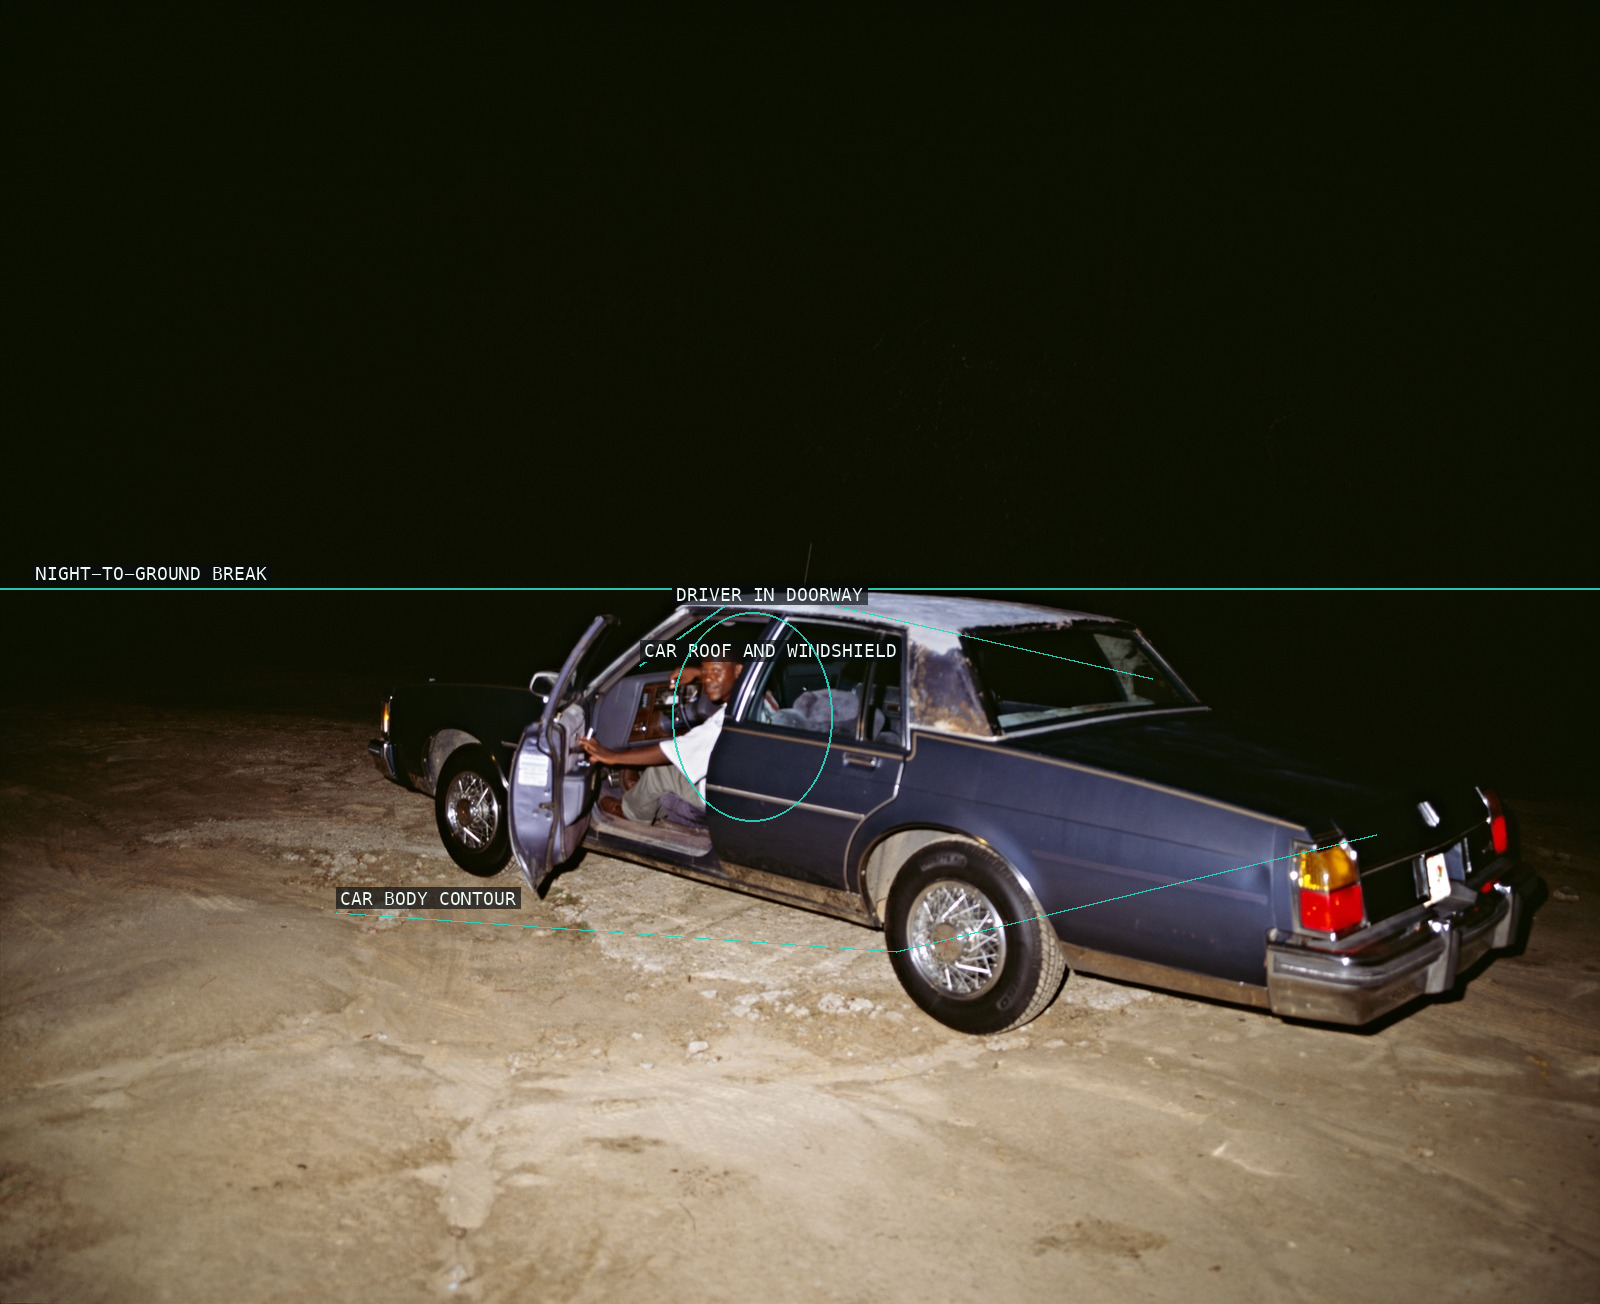
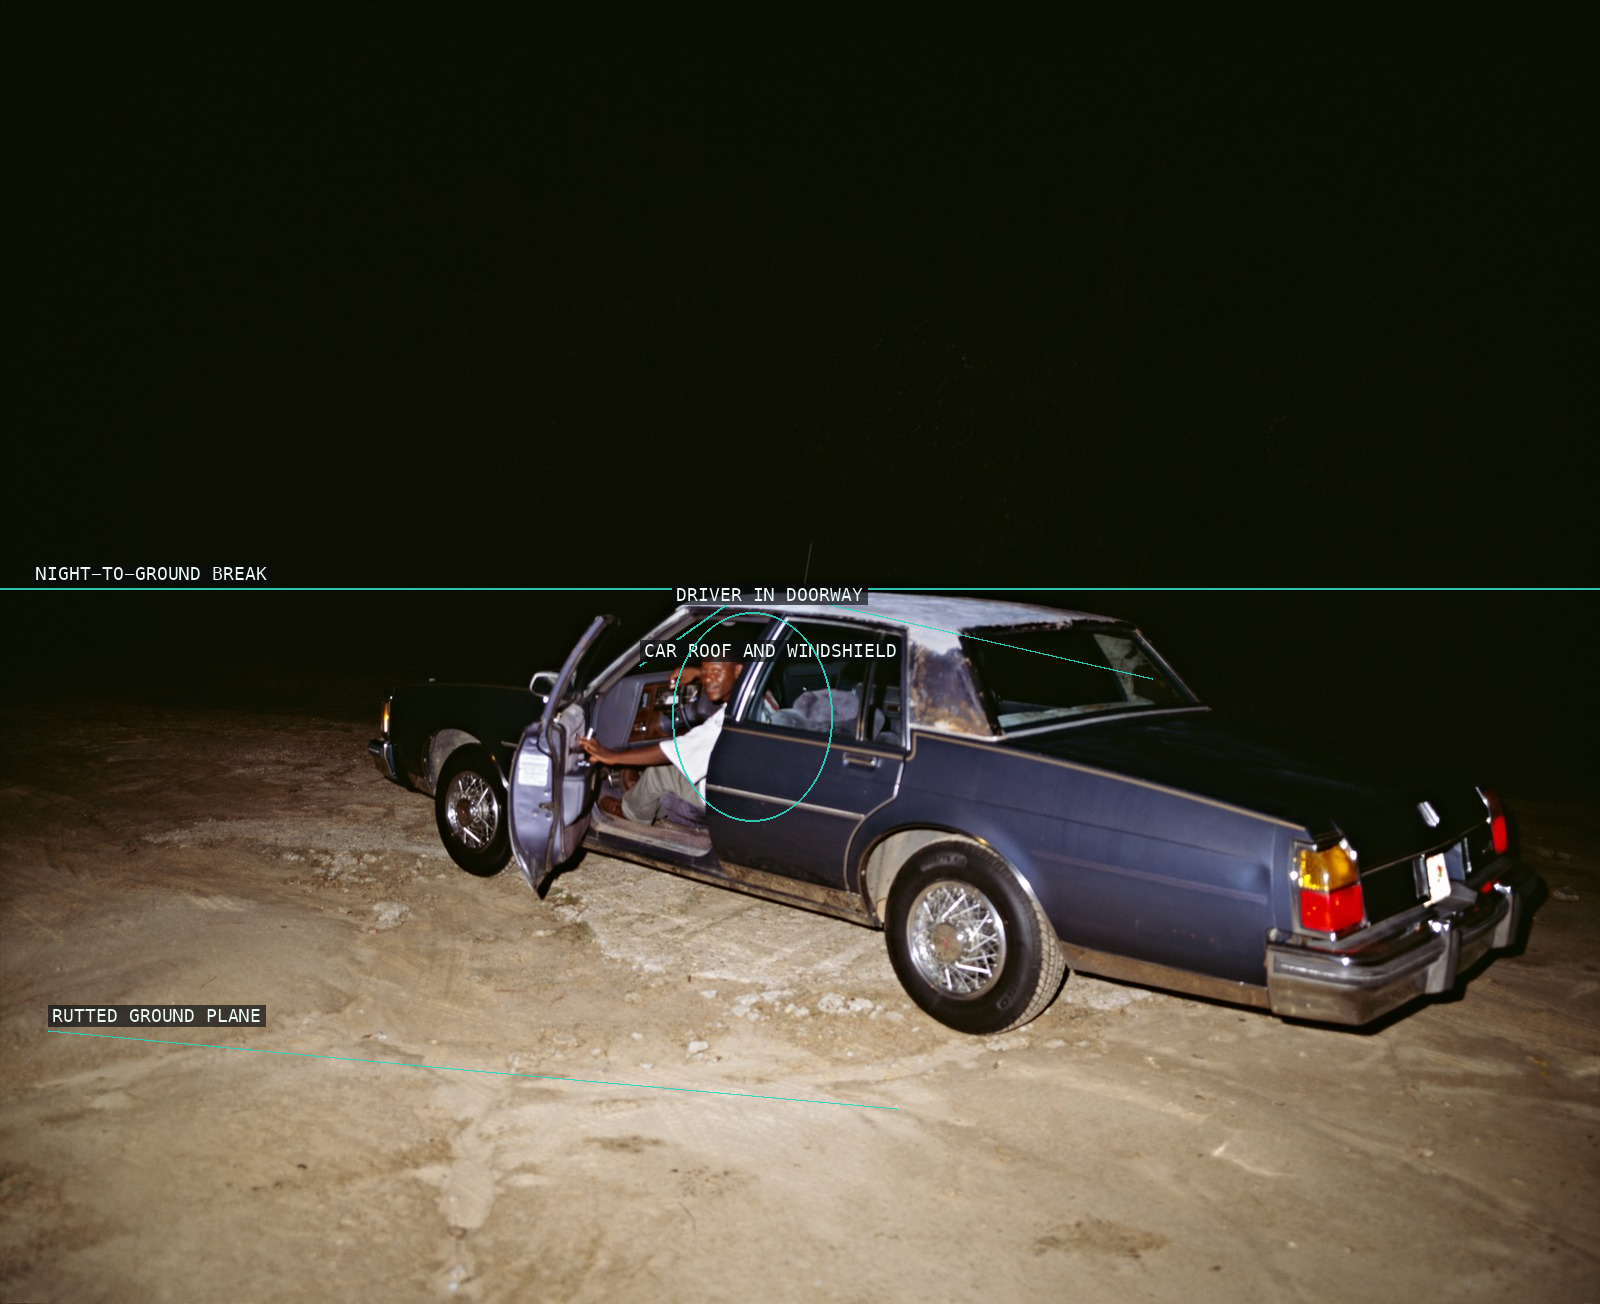
resolve critique: deana-lawson

Changed region(s): [[0.1875, 0.6748, 0.3438, 0.7055], [0.0312, 0.7669, 0.1875, 0.7975]]

diff --git a/content/deana-lawson/proofs/index.html b/content/deana-lawson/proofs/index.html
@@ -1,16 +1,74 @@
 <!doctype html>
-<html lang="en"><head><meta charset="utf-8"><meta name="viewport" content="width=device-width, initial-scale=1"><title>deana-lawson - proofs</title><style>:root{color-scheme:dark}body{background:#0a0e0f;color:#e6edf0;font-family:"JetBrains Mono",ui-monospace,monospace;margin:0;padding:2rem}h1{font-size:1rem}p{color:#7d919b;font-size:.8rem}.grid{display:grid;grid-template-columns:repeat(auto-fill,minmax(320px,1fr));gap:1.25rem;margin-top:1.5rem}figure{margin:0;border:1px solid #1e2a30;border-radius:.5rem;background:#10171a;padding:.6rem}img{width:100%;height:auto;display:block;border-radius:.25rem;background:#000}figcaption{margin-top:.5rem;font-size:.72rem;color:#7d919b}.id{color:#2dd4bf}</style></head><body>
-<h1>/* deana-lawson - proofs */</h1><p>12 plates. Deterministic overlays rendered by the composition-analysis skill.</p><div class="grid">
-<figure><img src="01-cardeidra.png" alt="Cardeidra" loading="lazy"><figcaption><span class="id">01-cardeidra</span><br>Two figure groups cross an open domestic wall.</figcaption></figure>
-<figure><img src="02-barrington-and-father.png" alt="Barrington and Father" loading="lazy"><figcaption><span class="id">02-barrington-and-father</span><br>Two frontal figures hold a shallow room.</figcaption></figure>
-<figure><img src="03-torus.png" alt="Torus" loading="lazy"><figcaption><span class="id">03-torus</span><br>A ring folds optical stripes into a center.</figcaption></figure>
-<figure><img src="04-nation.png" alt="Nation" loading="lazy"><figcaption><span class="id">04-nation</span><br>Doorway and couch split competing planes.</figcaption></figure>
-<figure><img src="05-the-garden-gemena-dr-congo.png" alt="The Garden, Gemena, DR Congo" loading="lazy"><figcaption><span class="id">05-the-garden-gemena-dr-congo</span><br>A small pair sits inside dense foliage.</figcaption></figure>
-<figure><img src="06-cowboys.png" alt="Cowboys" loading="lazy"><figcaption><span class="id">06-cowboys</span><br>Riders emerge as overlapping silhouettes.</figcaption></figure>
-<figure><img src="07-hellshire-beach-towel-with-flies.png" alt="Hellshire Beach Towel with Flies" loading="lazy"><figcaption><span class="id">07-hellshire-beach-towel-with-flies</span><br>A folded towel isolates itself in red.</figcaption></figure>
-<figure><img src="08-as-above-so-below.png" alt="As Above, So Below" loading="lazy"><figcaption><span class="id">08-as-above-so-below</span><br>Arms and mask form a vertical emblem.</figcaption></figure>
-<figure><img src="09-congregation.png" alt="Congregation" loading="lazy"><figcaption><span class="id">09-congregation</span><br>Crowd bands gather around bright interruptions.</figcaption></figure>
-<figure><img src="10-dirty-south.png" alt="Dirty South" loading="lazy"><figcaption><span class="id">10-dirty-south</span><br>A car and driver break a dark field.</figcaption></figure>
-<figure><img src="11-sharon.png" alt="Sharon" loading="lazy"><figcaption><span class="id">11-sharon</span><br>Window, blinds, and radiator organize a turn.</figcaption></figure>
-<figure><img src="12-emily-and-daughter-appropriated-image.png" alt="Emily and Daughter, Appropriated Image" loading="lazy"><figcaption><span class="id">12-emily-and-daughter-appropriated-image</span><br>Two figures persist through a damaged field.</figcaption></figure>
-</div></body></html>
+<html lang="en">
+<head>
+<meta charset="utf-8">
+<meta name="viewport" content="width=device-width, initial-scale=1">
+<title>deana-lawson - proofs</title>
+<style>
+  :root { color-scheme: dark; }
+  body { background:#0a0e0f; color:#e6edf0; font-family:"JetBrains Mono",ui-monospace,monospace; margin:0; padding:2rem; }
+  h1 { font-size:1rem; font-weight:700; letter-spacing:.02em; }
+  h1 .c { color:#55707b; }
+  p.sub { color:#7d919b; font-size:.8rem; margin-top:-.3rem; }
+  .grid { display:grid; grid-template-columns:repeat(auto-fill,minmax(320px,1fr)); gap:1.25rem; margin-top:1.5rem; }
+  figure { margin:0; border:1px solid #1e2a30; border-radius:.5rem; background:#10171a; padding:.6rem; }
+  figure img { width:100%; height:auto; display:block; border-radius:.25rem; background:#000; }
+  figcaption { margin-top:.5rem; font-size:.72rem; color:#7d919b; line-height:1.4; }
+  figcaption .id { color:#2dd4bf; }
+</style>
+</head>
+<body>
+<h1><span class="c">/* </span>deana-lawson - proofs<span class="c"> */</span></h1>
+<p class="sub">12 plates. Deterministic overlays rendered by the composition-analysis skill.</p>
+<div class="grid">
+<figure>
+  <img src="01-cardeidra.png" alt="01-cardeidra" loading="lazy">
+  <figcaption><span class="id">01-cardeidra</span><br>The domestic room stages two unequal figure groups across an emphatic empty wall.</figcaption>
+</figure>
+<figure>
+  <img src="02-barrington-and-father.png" alt="02-barrington-and-father" loading="lazy">
+  <figcaption><span class="id">02-barrington-and-father</span><br>Two direct figures hold a dense room in a deliberately shallow frontal stage.</figcaption>
+</figure>
+<figure>
+  <img src="03-torus.png" alt="03-torus" loading="lazy">
+  <figcaption><span class="id">03-torus</span><br>A near-symmetrical ring directs every stripe toward its recessed optical center.</figcaption>
+</figure>
+<figure>
+  <img src="04-nation.png" alt="04-nation" loading="lazy">
+  <figcaption><span class="id">04-nation</span><br>A doorway and seated figures divide a crowded domestic scene into competing image planes.</figcaption>
+</figure>
+<figure>
+  <img src="05-the-garden-gemena-dr-congo.png" alt="05-the-garden-gemena-dr-congo" loading="lazy">
+  <figcaption><span class="id">05-the-garden-gemena-dr-congo</span><br>A small pair is held inside a dark foliage enclosure and a dense foreground field.</figcaption>
+</figure>
+<figure>
+  <img src="06-cowboys.png" alt="06-cowboys" loading="lazy">
+  <figcaption><span class="id">06-cowboys</span><br>Brightly illuminated riders rise from a near-black field as separate, overlapping silhouettes.</figcaption>
+</figure>
+<figure>
+  <img src="07-hellshire-beach-towel-with-flies.png" alt="07-hellshire-beach-towel-with-flies" loading="lazy">
+  <figcaption><span class="id">07-hellshire-beach-towel-with-flies</span><br>A pink towel becomes the isolated, rumpled center of a red field.</figcaption>
+</figure>
+<figure>
+  <img src="08-as-above-so-below.png" alt="08-as-above-so-below" loading="lazy">
+  <figcaption><span class="id">08-as-above-so-below</span><br>A frontal seated figure makes the raised arms and animal mask into a compressed vertical emblem.</figcaption>
+</figure>
+<figure>
+  <img src="09-congregation.png" alt="09-congregation" loading="lazy">
+  <figcaption><span class="id">09-congregation</span><br>An overhead crowd reads as tightly packed bands punctuated by a few bright interruptions.</figcaption>
+</figure>
+<figure>
+  <img src="10-dirty-south.png" alt="10-dirty-south" loading="lazy">
+  <figcaption><span class="id">10-dirty-south</span><br>A brightly illuminated car and driver interrupt a large black field with a low, oblique body.</figcaption>
+</figure>
+<figure>
+  <img src="11-sharon.png" alt="11-sharon" loading="lazy">
+  <figcaption><span class="id">11-sharon</span><br>A centered window and radiator make the figure&#x27;s turned gaze a precise interruption.</figcaption>
+</figure>
+<figure>
+  <img src="12-emily-and-daughter-appropriated-image.png" alt="12-emily-and-daughter-appropriated-image" loading="lazy">
+  <figcaption><span class="id">12-emily-and-daughter-appropriated-image</span><br>Two figures persist through a weathered photographic field split by a damaged seam.</figcaption>
+</figure>
+</div>
+</body>
+</html>

diff --git a/content/deana-lawson/critique.md b/content/deana-lawson/critique.md
@@ -1,4 +1,4 @@
-verdict: revise
+verdict: resolved
 
 ## Critique round — 2026-07-26
 
@@ -48,3 +48,29 @@ Each changed overlay was freshly analyzed, rendered, visually checked, and score
 - **09-congregation:** the upper and lower crowd-band polylines are interpretive routes through a continuous crowd rather than discrete bands. They remain a readable compositional aid and do not block approval.
 
 All twelve proofs were visually re-reviewed. The overlay scorer returns 100/100 for every current spec, including the items above; those geometric results do not cure the semantic feature-label errors. The previous round's resolved doorway, horse-and-rider, mask, fair-use-description, and roof-line corrections remain materially intact. All twelve documented direct display links currently return public `image/jpeg` responses, and every entry retains a credit, gallery record, and concise per-image four-factor fair-use rationale.
+
+## Builder resolution — 2026-07-26
+
+Re-verified critique history: **Critique round — 2026-07-26** (first round and
+its prior resolution), and **Critique round — 2026-07-26** (current round).
+The earlier doorway frame, two horse-and-rider group ellipses, mask ellipse, and
+the four corrected fair-use scene descriptions remain intact after direct proof
+and source review.
+
+1. Removed the `Nation` `couch edge` polyline rather than making a false
+   continuous-edge claim. The chapter now describes the couch without treating
+   it as a traced overlay feature.
+2. Removed the `Hellshire Beach Towel` `towel fold` line, which tracked the
+   lower silhouette rather than an internal fold. The overlay and prose now make
+   the narrower claim of a rumpled towel mass with an upper contour and a lower
+   display edge.
+3. Replaced the `Dirty South` `car body contour` with a line that stays on the
+   visible foreground and is labelled `rutted ground plane`; the chapter now
+   states that this ground plane sets the car's low placement.
+4. Replaced all Lawson-specific `flash-lit` and `flash illumination` assertions
+   with observable `brightly illuminated` or `sharp local brightness` language,
+   including the chapter, source record, and overlay notes.
+
+Fresh analysis, rendering, visual inspection, and scoring of `04-nation`,
+`07-hellshire-beach-towel-with-flies`, and `10-dirty-south` each returned
+100/100. `scripts/check.sh` passed before this resolution note was recorded.

diff --git a/content/deana-lawson/sources.md b/content/deana-lawson/sources.md
@@ -72,11 +72,11 @@ Source: [gallery record](https://www.davidkordanskygallery.com/artist/deana-laws
 
 ### 07. *Hellshire Beach Towel with Flies, Portmore, Jamaica* (2013)
 
-The folded pink towel sits alone on a broad red surface, turning a small material
-object into a graphic field where texture, fold, and surrounding colour negotiate attention.
+The rumpled pink towel sits alone on a broad red surface, turning a small material
+object into a graphic field where texture and surrounding colour negotiate attention.
 Source: [gallery record](https://www.davidkordanskygallery.com/artist/deana-lawson/featured-works?view=slider), [public display JPEG](https://static-assets.artlogic.net/w_1800,h_1800,c_limit/exhibit-e/675c7754605ea781900ec16e/541f81ba7c1dfa9a83d3db9171a99fa1.jpeg).
 
-**Use basis: fair-use.** Credit: Deana Lawson; 2013 pigment print. Factor 1: transformative analysis of the isolated towel, its visible fold, and the red display field. Factor 2: creative authored photograph. Factor 3: the complete frame is needed to keep the small towel's scale and contour in relation to the broad red surround. Factor 4: the 1,800 × 1,427px credited display copy is web-sized, linked, and non-substitutive.
+**Use basis: fair-use.** Credit: Deana Lawson; 2013 pigment print. Factor 1: transformative analysis of the isolated towel, its rumpled surface, and the red display field. Factor 2: creative authored photograph. Factor 3: the complete frame is needed to keep the small towel's scale and contour in relation to the broad red surround. Factor 4: the 1,800 × 1,427px credited display copy is web-sized, linked, and non-substitutive.
 
 ### 08. *As Above, So Below, Port-au-Prince, Haiti* (2013)
 
@@ -96,7 +96,7 @@ Source: [gallery record](https://www.davidkordanskygallery.com/artist/deana-laws
 
 ### 10. *Dirty South* (2010)
 
-The flash-lit car, its open door, and the driver break a large night field over a
+The brightly illuminated car, its open door, and the driver break a large night field over a
 low, pale ground rather than resolving into a domestic room.
 Source: [gallery record](https://www.davidkordanskygallery.com/artist/deana-lawson/featured-works?view=slider), [public display JPEG](https://static-assets.artlogic.net/w_1800,h_1800,c_limit/exhibit-e/675c7754605ea781900ec16e/f4306be64fa18120e5841afbfeb28c5a.jpeg).
 
